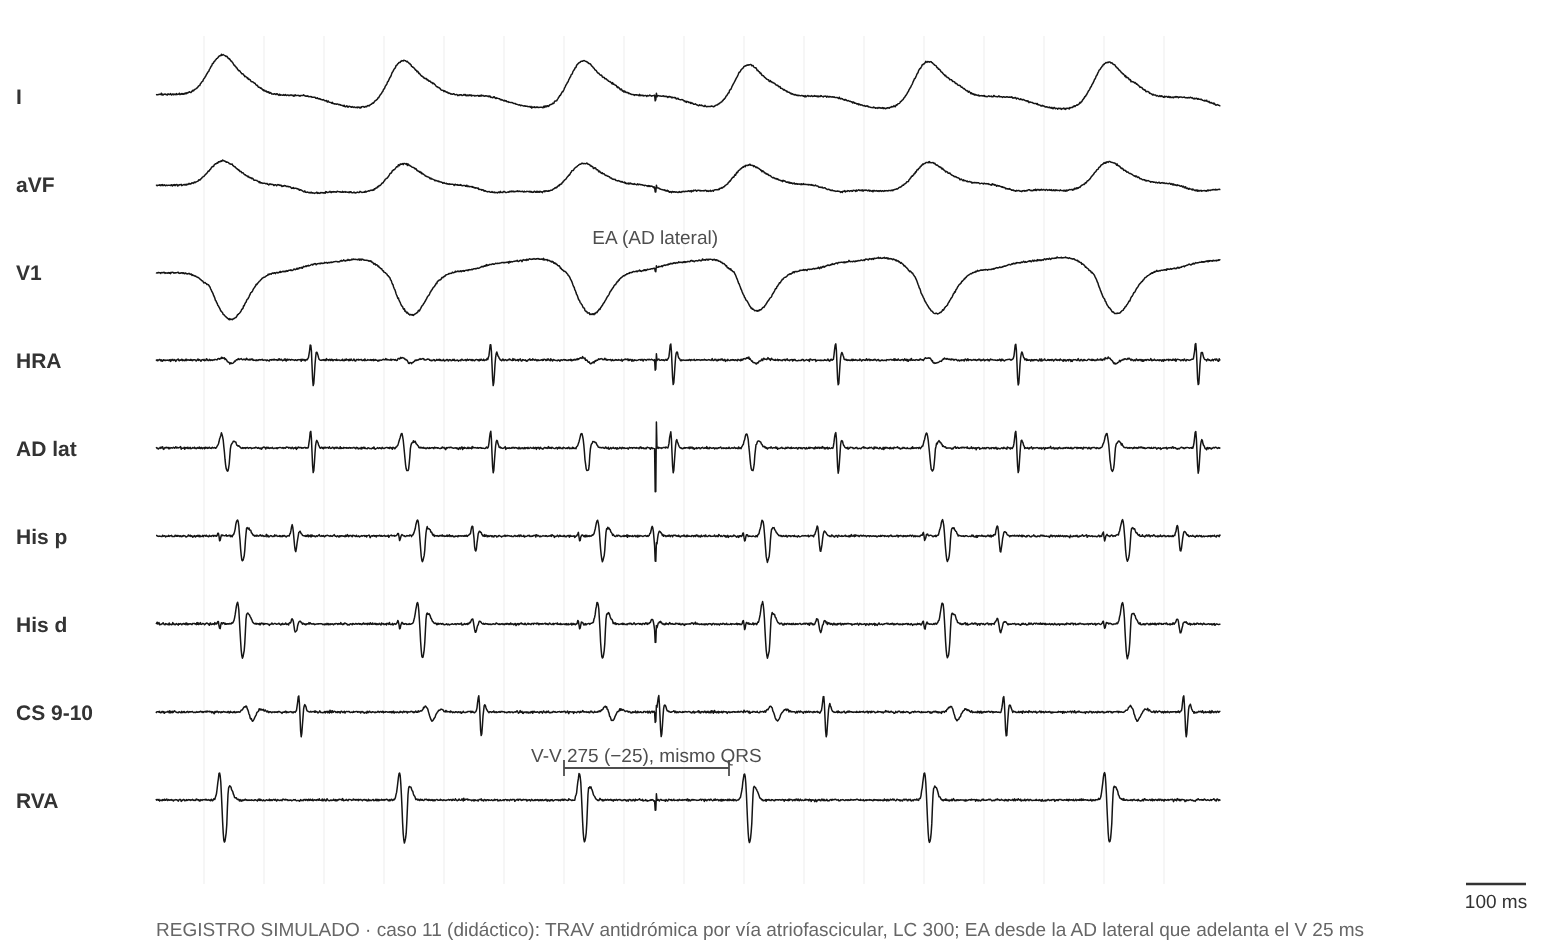
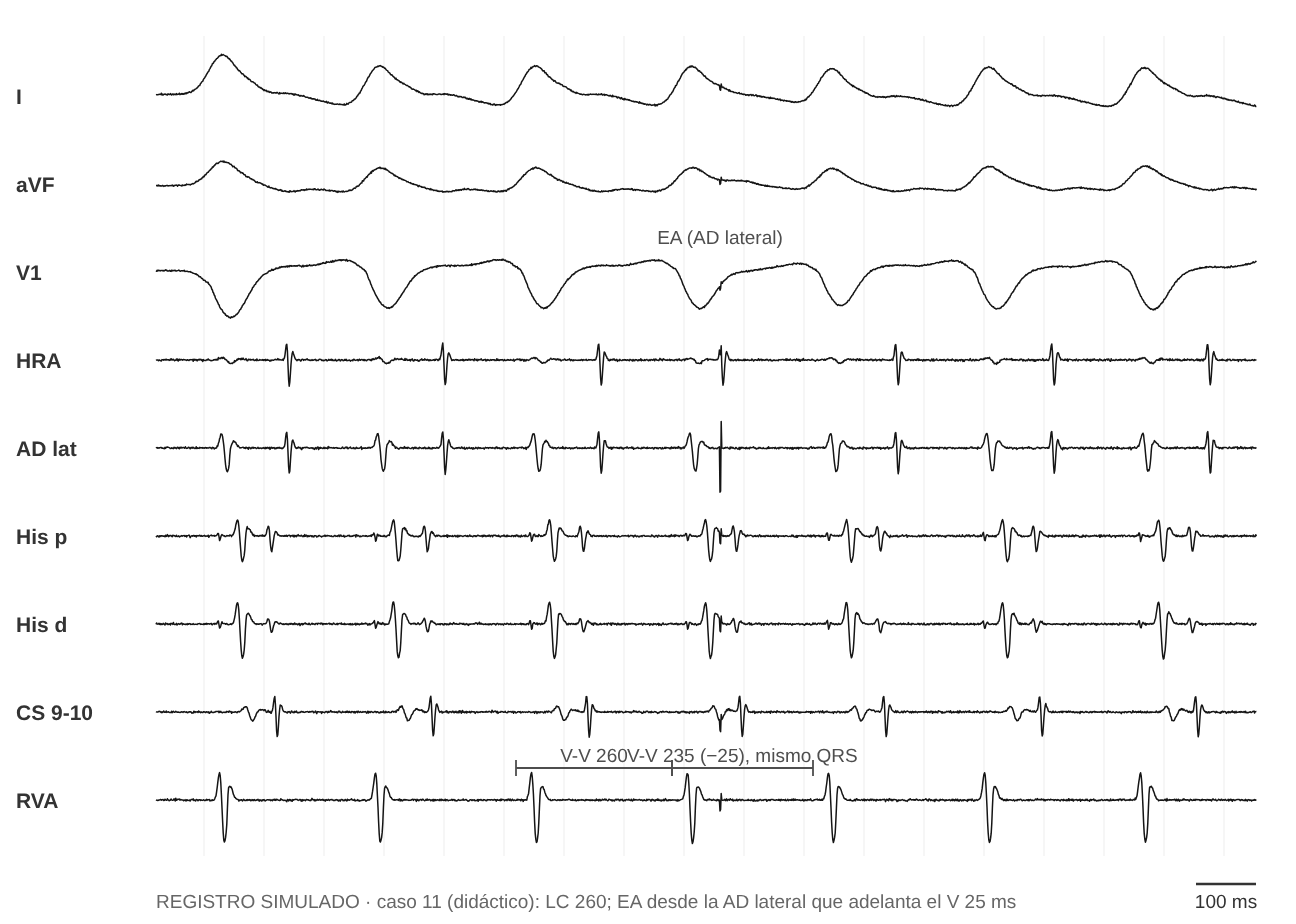
Caso 11: ECG real de Mahaim (anonimizado), LC 260, basal, inducción y EA propios
Claude-Session: https://claude.ai/code/session_01Pw5rjt62KK5LeJZoEyFiaM

diff --git a/index.html b/index.html
@@ -1171,7 +1171,8 @@ const PCASOS = [
       medidas: { r: 'PPI−LC 105 ms; el SA−VA no se interpreta con bloqueo VA.', u: 'util' } },
     dx: ['nvrt'], ex: 'Con bloqueo VA, el diferencial es TRNAV con bloqueo superior vs vía nodoventricular o nodofascicular. Una sola TSV, Wenckebach VA y HH estable apoyan la vía; His ortodrómico, V-V-A y PPI−LC ≤ 125 la confirman, y la fusión constante indica nodoventricular.', refs: ['nagashima20', 'veen12'] },
   { id: 'c11', t: 'Taquicardia de QRS ancho con BRI en un corazón sano', p: 'Adolescente de 14 años con palpitaciones. ECG en sinusal normal, con patrón rS en DIII.',
-    h: ['Taquicardia de QRS ancho con BRI, eje normal o superior y transición tardía (después de V4); LC 300 ms', 'Relación AV 1:1', 'His retrógrado, después del inicio del QRS (HV negativo)', 'Activación auricular retrógrada concéntrica'],
+    ecg: 'figs/sim/casos/c11_ecg.jpg', ecgReal: true, basal: 'figs/sim/casos/c11_basal.png', ind: 'figs/sim/casos/c11_ind.png',
+    h: ['Taquicardia de QRS ancho con BRI, eje normal o superior y transición tardía (después de V4); LC 260 ms', 'Relación AV 1:1', 'His retrógrado, después del inicio del QRS (HV negativo)', 'Activación auricular retrógrada concéntrica'],
     m: { adec: { r: 'Con estimulación auricular decremental desde la AD aparece una preexcitación con BRI que aumenta: el AV se alarga y el HV se acorta hasta hacerse negativo.', u: 'clave', img: 'figs/sim/prac/p11_adec.png' },
       eapre: { r: 'Un EA desde la AD lateral, con la unión AV refractaria, adelanta el V siguiente sin cambiar el QRS y resetea la taquicardia. Desde el septum no la modifica.', u: 'clave', img: 'figs/sim/prac/p11_eapre.png' },
       anillo: { r: 'Potencial de la vía en el anillo tricuspídeo lateral, entre la A y el V.', u: 'clave', img: 'figs/sim/prac/p11_anillo.png' },

diff --git a/sw.js b/sw.js
@@ -1,6 +1,6 @@
 // Permite instalar la app y abrirla sin conexión. Primero la red (siempre lo último publicado); si no hay, la copia.
 // Si cambiás un archivo, subí CACHE_VERSION.
-const CACHE_VERSION = 'mef-v68';
+const CACHE_VERSION = 'mef-v69';
 const ARCHIVOS = ['./', './index.html', './manifest.json', './iconos/icon-192.png', './iconos/icon-512.png'];
 self.addEventListener('install', e => e.waitUntil(caches.open(CACHE_VERSION).then(c => c.addAll(ARCHIVOS)).then(() => self.skipWaiting())));
 self.addEventListener('activate', e => e.waitUntil(caches.keys().then(ks => Promise.all(ks.filter(k => k !== CACHE_VERSION).map(k => caches.delete(k)))).then(() => self.clients.claim())));

diff --git a/herramientas/simulador/cases4.py b/herramientas/simulador/cases4.py
@@ -136,18 +136,19 @@ S['p11_adec'] = dict(win=(-80, 1620), pxms=0.40, channels=['HRA', 'His p', 'His 
     marks=[(qrs[1], 'V1', 'BRI incipiente'), (qrs[3], 'V1', 'BRI completo'), (hs[3], 'His p', 'H después del QRS')])
 
 # Caso 11: EA desde la AD lateral con la unión refractaria adelanta el V sin cambiar el QRS y resetea (TRAV antidrómica por Mahaim).
-LC = 300
-vs = [0, LC, 2 * LC]
-A = [v + 150 for v in vs]
-ea = A[2] + 2                       # en el momento de la A septal: la unión está refractaria
-v_new = 3 * LC - 25
+# LC 260 como el ECG real del caso; AV por la vía 150, VA por el nodo 110. El EA cae 30 ms antes de la A esperada.
+LC, VA = 260, 110
+vs = [0, LC, 2 * LC, 3 * LC]
+A = [v + VA for v in vs[:3]]
+ea = vs[3] + VA - 30
+v_new = 4 * LC - 25
 after = [v_new + i * LC for i in range(3)]
-A += [v + 150 for v in after]
+A += [v + VA for v in after]
 S['p11_eapre'] = dict(win=(-80, after[-1] + 220), pxms=0.30, channels=['HRA', 'AD lat', 'His p', 'His d', 'CS 9-10', 'RVA'],
-    src='caso 11 (didáctico): TRAV antidrómica por vía atriofascicular, LC 300; EA desde la AD lateral que adelanta el V 25 ms',
-    beats=[(v, 'lb') for v in vs + after], aspikes=[ea], apace_ch='AD lat', atr=[(a, 'conc_his', -1) for a in A],
+    src='caso 11 (didáctico): LC 260; EA desde la AD lateral que adelanta el V 25 ms',
+    beats=[(v, 'lb') for v in vs + after], aspikes=[ea], apace_ch='AD lat', atr=[(a, 'conc_his', -1) for a in A] + [(ea + 3, 'right', 1)],
     h_retro=[v + 25 for v in vs + after], extra={'AD lat': [(a + 30, 0.9, 1.0) for a in A]},
-    cal=[(vs[2], v_new, 'RVA', 'V-V 275 (−25), mismo QRS')], marks=[(ea, 'V1', 'EA (AD lateral)')])
+    cal=[(vs[2], vs[3], 'RVA', f'V-V {LC}'), (vs[3], v_new, 'RVA', f'V-V {LC - 25} (−25), mismo QRS')], marks=[(ea, 'V1', 'EA (AD lateral)')])
 
 # Caso 11: potencial de la vía atriofascicular en el anillo tricuspídeo lateral (entre la A y el V), durante estimulación auricular.
 sp = [0, 600, 1200]

diff --git a/herramientas/simulador/cases5.py b/herramientas/simulador/cases5.py
@@ -300,6 +300,24 @@ S['c12_ind'] = dict(win=(-80, vs[-1] + 200), pxms=0.30, title='Inducción: extra
     h_retro=[v + 120 for v in vs[2:]], extra={'AD lat': [(s + 30, 0.8, 1.0) for s in sp] + [(x + 25, 0.8, 1.0) for x in A[:-1]]},
     cal=[(sp[1], sp[2], 'HRA', 'S2 280'), (vs[3], vs[4], 'RVA', f'LC {vs[4] - vs[3]}'), (vs[3], A[1] + 2, 'HRA', 'VA 160')])
 
+# Caso 11 (Mahaim, LC 260 como el ECG real). Basal sin preexcitación evidente; inducción con extraestímulo auricular.
+S['c11_basal'] = basal('caso 11 (didáctico): AH 90, HV 45, ilustrativos', ah=90, cl=700)
+S['c11_basal']['win'] = (-80, 2 * 700 + 330)
+sp = [0, 600, 860]
+hs0 = [s + 28 + 90 for s in sp[:2]]
+vs = [h + HV for h in hs0] + [sp[2] + 170]
+A = []
+for _ in range(5):
+    A.append(vs[-1] + 110)
+    vs.append(A[-1] + 150)
+S['c11_ind'] = dict(win=(-80, vs[-1] + 200), pxms=0.30, title='Inducción: extraestímulo auricular (S1-S2 600-260)',
+    channels=['HRA', 'AD lat', 'His p', 'His d', 'CS 9-10', 'RVA'], src='caso 11 (didáctico): valores ilustrativos',
+    beats=[(v, 'n') for v in vs[:2]] + [(v, 'lb') for v in vs[2:]], aspikes=sp, apace_ch='HRA',
+    atr=[(s + 5, 'sinus', 1) for s in sp] + [(x, 'conc_his', -1) for x in A[:-1]], h_ante=hs0, h_retro=[v + 25 for v in vs[2:]],
+    extra={'AD lat': [(s + 30, 0.8, 1.0) for s in sp] + [(x + 30, 0.8, 1.0) for x in A[:-1]]},
+    cal=[(sp[1], sp[2], 'HRA', 'S2 260'), (sp[2], vs[2], 'HRA', 'AV 170'), (vs[3], vs[4], 'RVA', f'LC {vs[4] - vs[3]}'),
+         (vs[3], A[1] + 2, 'CS 9-10', 'VA 110')])
+
 if __name__ == '__main__':
     for k in (sys.argv[3:] or list(S)):
         render(S[k], f'{OUT}/{k}.svg')

diff --git a/herramientas/simulador/practica.py b/herramientas/simulador/practica.py
@@ -24,7 +24,7 @@ RENOMBRAR = {'LC TSV 430': 'LC 430', 'VA': 'VA 120', 'SA': 'SA 160', 'PPI': 'PPI
 
 # Calibres agregados: la LC (o el A-A) de la TSV, para que se pueda calcular
 EXTRA = {'p10_vop': [(0, 390, 'RVA', 'LC 390')], 'p10_ehr': [(0, 390, 'RVA', 'LC 390')],
-         'p11_eapre': [(0, 300, 'His d', 'LC 300')], 'p12_eapre': []}
+         'p11_eapre': [], 'p12_eapre': []}
 EHR = ['p2_ehr', 'p4_ehr_a', 'p4_ehr_b', 'p5_ehr', 'p6_ehr', 'p9_ehr']   # se agrega el A-A de la TSV
 
 

diff --git a/PENDIENTES.md b/PENDIENTES.md
@@ -19,7 +19,7 @@ Cada link abre el caso en una vista de revisión: hallazgos, diagnóstico, expli
 - [ ] [ver](https://drsebastianmaldonado.github.io/Maniobras-EEF/#revision-8) **Caso 8: Taquicardia de QRS ancho que terminó con verapamilo**. Datos publicados: Liu Q 2023, Liu 2015 y Nogami 2010. Con tus ECG reales (TV y sinusal después de la conversión): la LC pasó de 337 a 420 y el QRS a 140; el registro del verapamilo (LC 420 → 480) es ilustrativo.
 - [ ] [ver](https://drsebastianmaldonado.github.io/Maniobras-EEF/#revision-9) **Caso 9: TRAV septal que imita una TRNAV atípica**. Datos publicados: Arias 2010. Valen PJRT y TRAV por vía septal; revisar la explicación reescrita.
 - [ ] [ver](https://drsebastianmaldonado.github.io/Maniobras-EEF/#revision-10) **Caso 10: TSV con bloqueo VA tipo Wenckebach**. Didáctico (vía nodoventricular); LC 390 ilustrativa.
-- [ ] [ver](https://drsebastianmaldonado.github.io/Maniobras-EEF/#revision-11) **Caso 11: Taquicardia de QRS ancho con BRI en un corazón sano**. Didáctico (Mahaim); LC 300 ilustrativa. Se apoya en Josephson, Klein 1988, Sternick 2004 y tu presentación.
+- [ ] [ver](https://drsebastianmaldonado.github.io/Maniobras-EEF/#revision-11) **Caso 11: Taquicardia de QRS ancho con BRI en un corazón sano**. Didáctico (Mahaim) con tu ECG real: la LC pasó de 300 a 260; el resto ilustrativo. Se apoya en Josephson, Klein 1988, Sternick 2004 y tu presentación.
 - [ ] [ver](https://drsebastianmaldonado.github.io/Maniobras-EEF/#revision-12) **Caso 12: Taquicardia de QRS ancho con preexcitación máxima**. Didáctico (TRAV antidrómica) con tus ECG reales (taquicardia y sinusal preexcitado): la LC pasó de 280 a 245 y la vía pasó de lateral izquierda a derecha (V1 negativo en tus ECG); confirmá la localización. Mismo respaldo que el 11.
 - [ ] [ver](https://drsebastianmaldonado.github.io/Maniobras-EEF/#revision-13) **Caso 13: Una P y dos QRS**. Datos publicados: Burri 2012 (doble disparo nodal). La atropina y la adenosina no están en el caso; las escribí como lo esperable según Peiker 2016.
 - [ ] [ver](https://drsebastianmaldonado.github.io/Maniobras-EEF/#revision-14) **Caso 14: Lactante con taquicardia incesante** (nuevo). Didáctico (PJRT). Tu ECG real pasó al caso 6; este quedó con un ECG simulado. LC 300, VA 190, AH 70, HV 40 y todos los resultados de las maniobras son ilustrativos.
